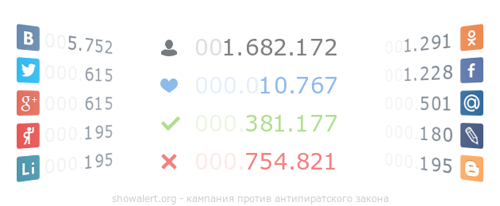
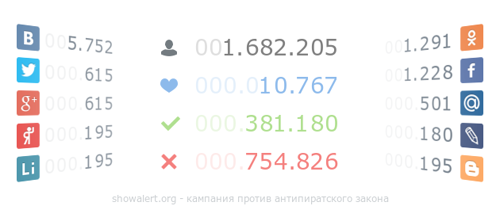
update statistics files for plugins

Changed region(s): [[0.6, 0.1748, 0.69, 0.2913], [0.6, 0.5534, 0.69, 0.6408], [0.63, 0.7282, 0.69, 0.8155]]

diff --git a/votes.js b/votes.js
@@ -1,1 +1,1 @@
-window.lk.votes(32729)
+window.lk.votes(32731)
